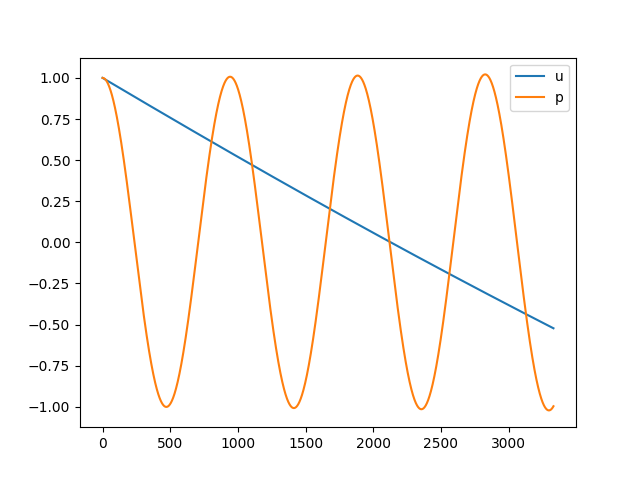
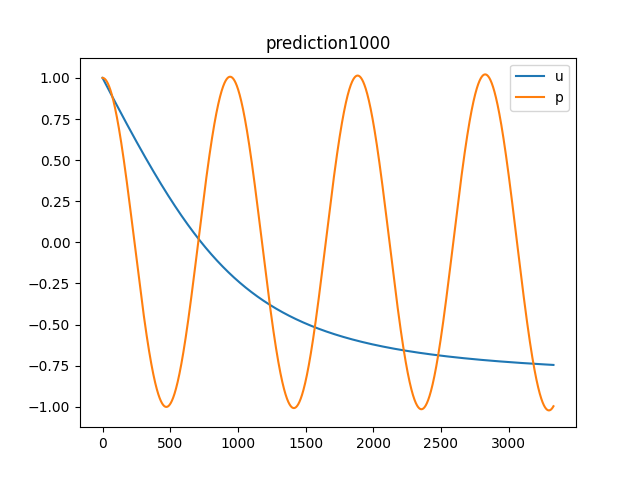
stacking time

diff --git a/examples/Toy_Example_HMM.py b/examples/Toy_Example_HMM.py
@@ -39,12 +39,12 @@ torch.pi = torch.acos(torch.zeros(1)).item() * 2
 parser = argparse.ArgumentParser('ODE demo')
 parser.add_argument('--method', type=str, choices=['dopri5', 'adams'], default='dopri5')
 parser.add_argument('--data_size', type=int, default=10000)
-parser.add_argument('--batch_time', type=int, default=10)
-parser.add_argument('--fast_batch_time', type=int, default=10)
-parser.add_argument('--batch_size', type=int, default=20)
+parser.add_argument('--batch_time', type=int, default=1000)
+parser.add_argument('--fast_batch_time', type=int, default=100)
+parser.add_argument('--batch_size', type=int, default=128)
 parser.add_argument('--niters', type=int, default=2000)
-parser.add_argument('--test_freq', type=int, default=20)
-parser.add_argument('--fast_step', type=int, default=5)
+parser.add_argument('--test_freq', type=int, default=100)
+parser.add_argument('--fast_step', type=int, default=15)
 parser.add_argument('--viz', action='store_true')
 parser.add_argument('--gpu', type=int, default=0)
 parser.add_argument('--adjoint', action='store_true')
@@ -57,22 +57,6 @@ else:
 
 
 device = torch.device('cuda:' + str(args.gpu) if torch.cuda.is_available() else 'cpu')
-
-
-freq_slow = 1
-freq_fast = 4
-
-class Lambda_slow(nn.Module):
-    def forward(self, t, y, y_fast):
-        return torch.sin(freq_slow * t) + 1/(y_fast + 0.01)
-
-
-class Lambda_fast(nn.Module):
-    def forward(self, t, y, y_slow):
-        return torch.sin(freq_fast * t)**2 + torch.cos(y_slow)**2
-
-lambda_slow = Lambda_slow()
-lambda_fast = Lambda_fast()
 
 
 def generate_stellar_orbits(a=2, b=3, epslion=0.009):
@@ -114,16 +98,9 @@ def time_series_sampling(slow, fast, data_t, slow_step_size=None, fast_step_size
     print(len(t_slow))
     for i in range(len(data_fast)):
         if(len(data_fast[i]) != fast_size):
-            print("here", len(data_fast[i]), fast_size, i)
             for j in range(fast_size - len(data_fast[i])):
                 data_fast[i].append(data_fast[i][-1])
                 t_fast[i].append(t_fast[i][-1])
-    print("here", len(data_fast[3332]))
-    print(data_fast[0][0])
-    print(len(data_fast), len(data_fast[0]))
-
-    print(torch.tensor(data_fast).shape)
-    print(torch.tensor(data_fast))
     return t_slow, t_fast, torch.tensor(data_slow), torch.tensor(data_fast)
 
 def convert_to_float(lst):
@@ -187,7 +164,7 @@ if args.viz:
 #f_theta (slow ODE)
 class ODEFunc_fast(nn.Module):
 
-    def __init__(self, dim_in=2, dim_out=1):
+    def __init__(self, dim_in=3, dim_out=1):
         super(ODEFunc_fast, self).__init__()
 
         self.net = nn.Sequential(
@@ -208,15 +185,14 @@ class ODEFunc_fast(nn.Module):
             dim0 = len(y)
         y = y.reshape([dim0, 1])
         y_other_dim = y_other_dim.reshape([len(y_other_dim), 1])
-
-        input = torch.concat([y, y_other_dim], 1)
+        input = torch.concat([y, y_other_dim, torch.full(y.shape, t)], 1)
         self.nfe += 1
         return self.net(torch.sin(input))
 
 #f_theta (slow ODE)
 class ODEFunc_slow(nn.Module):
 
-    def __init__(self, dim_in=2, dim_out=1):
+    def __init__(self, dim_in=3, dim_out=1):
         super(ODEFunc_slow, self).__init__()
 
         self.net = nn.Sequential(
@@ -233,7 +209,7 @@ class ODEFunc_slow(nn.Module):
     def forward(self, t, y, y_other_dim):
         y = y.reshape([len(y), 1])
         y_other_dim = y_other_dim.reshape([len(y_other_dim), 1])
-        input = torch.concat([y, y_other_dim], 1)
+        input = torch.concat([y, y_other_dim, torch.full(y.shape, t)], 1)
         self.nfe += 1
         return self.net(torch.sin(input))
        
@@ -264,8 +240,9 @@ if __name__ == '__main__':
     func = ODEFunc_slow().to(device)
     func_fast = ODEFunc_fast().to(device)
     
-    optimizer = optim.RMSprop(func.parameters(), lr=1e-3)
-    optimizer_fast = optim.RMSprop(func_fast.parameters(), lr=1e-3)
+    optimizer = optim.RMSprop(func.parameters(), lr=1e-1)
+    optimizer_fast = optim.RMSprop(func_fast.parameters(), lr=1e-1)
+    
     
     end = time.time()
 
@@ -297,6 +274,7 @@ if __name__ == '__main__':
         slow_intg_time.append(timing)
         fast_intg_time.append(fast_timing)
         loss = torch.mean(torch.abs(pred_y - batch_y_slow))
+        print("batch_y_fast.shape", batch_y_fast.shape)
         loss_fast = torch.mean(torch.abs(pred_y_fast - batch_y_fast))
         
         loss.backward(retain_graph=True)
